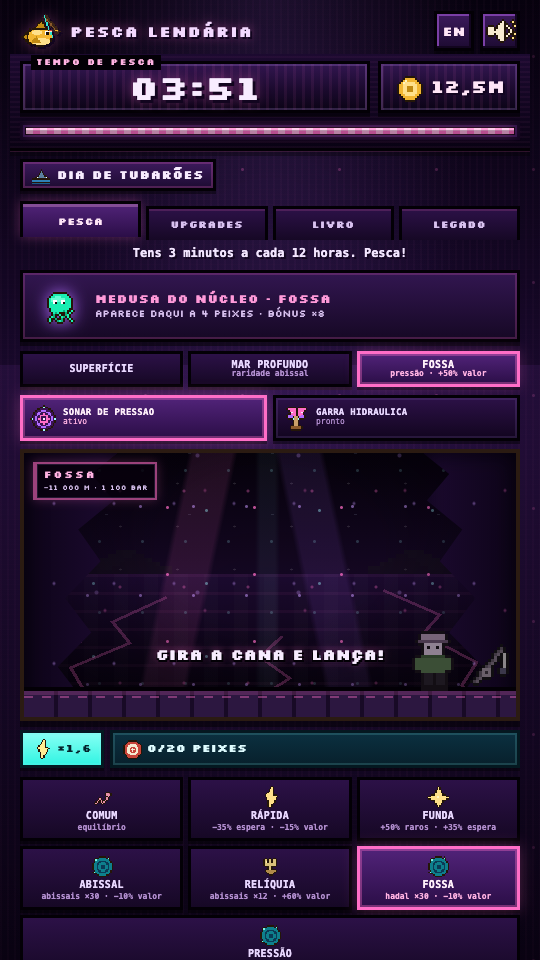
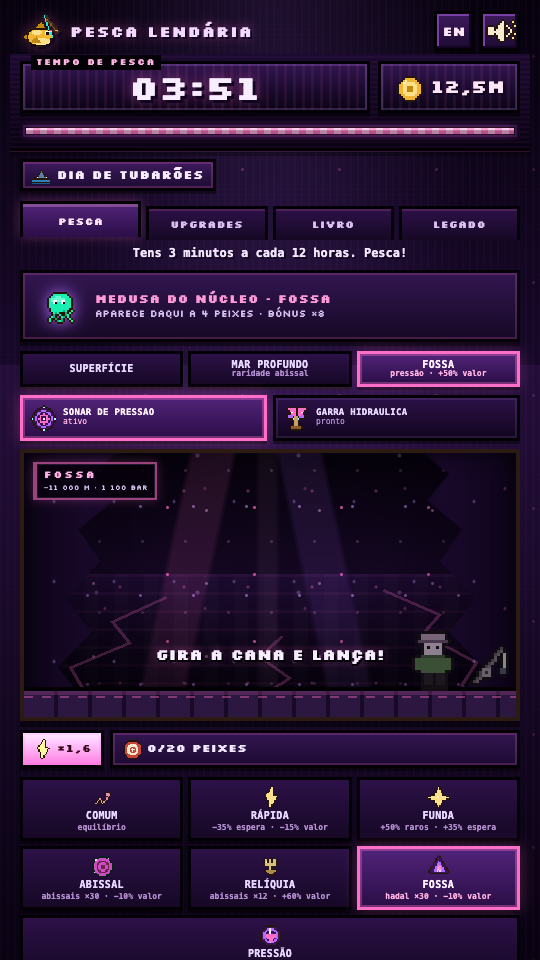
Remove os últimos azuis do tema da Fossa
- Combo, missão, evento, capturas, conquistas e modais passam a violeta/rosa.
- Iscas Fossa e Pressão ganham ícones próprios.
- Ícones abissais convidados são tingidos na Fossa.
- Remove acentos azuis da cena e atualiza versão/captura.

diff --git a/assets/css/styles.css b/assets/css/styles.css
@@ -709,7 +709,7 @@ body[data-ads="gd"] .site-footer{display:none !important;}
   background-image:
     radial-gradient(circle, rgba(255,110,199,.85) 1.5px, transparent 2.5px),
     radial-gradient(circle, rgba(201,154,255,.6) 2px, transparent 3px),
-    radial-gradient(circle, rgba(159,247,255,.45) 1px, transparent 2px);
+    radial-gradient(circle, rgba(255,179,226,.45) 1px, transparent 2px);
 }
 .descida.fossa.ativa .descida-bolhas{animation-duration:2.2s;}
 .descida.fossa .descida-vinheta{
@@ -727,7 +727,7 @@ body[data-ads="gd"] .site-footer{display:none !important;}
     inset 0 0 26px rgba(255,110,199,.4);
   background:
     linear-gradient(90deg, rgba(255,110,199,.16), transparent 13%, transparent 87%, rgba(255,110,199,.16)),
-    repeating-linear-gradient(0deg, transparent 0 7px, rgba(159,247,255,.035) 7px 8px);
+    repeating-linear-gradient(0deg, transparent 0 7px, rgba(255,179,226,.04) 7px 8px);
 }
 .descida.fossa.ativa .descida-pressao{animation:pressaoPulsa 1.7s steps(3) infinite;}
 .descida-sonar{
@@ -742,7 +742,7 @@ body[data-ads="gd"] .site-footer{display:none !important;}
   position:absolute;top:-120%;bottom:-120%;left:0;right:0;z-index:1;opacity:0;pointer-events:none;
   background-image:
     radial-gradient(circle, rgba(201,154,255,.65) 1px, transparent 2px),
-    radial-gradient(circle, rgba(159,247,255,.4) 1px, transparent 2px),
+    radial-gradient(circle, rgba(255,179,226,.4) 1px, transparent 2px),
     radial-gradient(circle, rgba(255,110,199,.45) 1px, transparent 2px);
   background-size:60px 80px, 90px 120px, 40px 60px;
   background-position:0 0, 21px 33px, 9px 17px;
@@ -1602,7 +1602,7 @@ body[data-modo="fossa"]::before{
     repeating-linear-gradient(0deg, rgba(255,110,199,.025) 0 1px, transparent 1px 5px),
     radial-gradient(circle, rgba(255,110,199,.55) 1px, transparent 2px),
     radial-gradient(circle, rgba(201,154,255,.42) 1px, transparent 2px),
-    radial-gradient(circle, rgba(159,247,255,.34) 1px, transparent 2px);
+    radial-gradient(circle, rgba(255,179,226,.34) 1px, transparent 2px);
   background-size:auto, auto, 97px 113px, 151px 173px, 223px 197px;
   background-position:center, 0 0, 0 0, 37px 61px, 93px 19px;
   opacity:.5;
@@ -1867,12 +1867,13 @@ body[data-modo="fossa"] .catch-val{color:#ff9ad9;text-shadow:2px 2px 0 #12051f;}
 .scene[data-zona="fossa"] .barco-spr,
 .scene[data-zona="fossa"] .poste,
 .scene[data-zona="fossa"] .peixe-salta{display:none;}
-.scene[data-zona="fossa"] .morro{opacity:.18;filter:hue-rotate(260deg) brightness(.42);}
+.scene[data-zona="fossa"] .morro,
+.scene[data-zona="fossa"] .estrelas{display:none;}
 .scene[data-zona="fossa"] .abismo-luz{
   background:
     linear-gradient(102deg, transparent 30%, rgba(255,110,199,.11) 31%, rgba(255,110,199,.11) 38%, transparent 39%),
     linear-gradient(78deg, transparent 56%, rgba(176,107,255,.1) 57%, rgba(176,107,255,.1) 64%, transparent 65%),
-    linear-gradient(90deg, transparent 47%, rgba(159,247,255,.05) 48%, rgba(159,247,255,.05) 51%, transparent 52%);
+    linear-gradient(90deg, transparent 47%, rgba(255,179,226,.05) 48%, rgba(255,179,226,.05) 51%, transparent 52%);
   animation:none;
 }
 .scene[data-zona="fossa"] .abismo-plankton{
@@ -1880,7 +1881,7 @@ body[data-modo="fossa"] .catch-val{color:#ff9ad9;text-shadow:2px 2px 0 #12051f;}
   background-image:
     radial-gradient(circle, rgba(255,110,199,.95) 1px, transparent 2px),
     radial-gradient(circle, rgba(201,154,255,.7) 1px, transparent 2px),
-    radial-gradient(circle, rgba(159,247,255,.55) 1px, transparent 2px);
+    radial-gradient(circle, rgba(255,179,226,.55) 1px, transparent 2px);
   background-size:87px 67px, 53px 89px, 113px 73px;
   animation:none;
 }
@@ -1889,7 +1890,7 @@ body[data-modo="fossa"] .catch-val{color:#ff9ad9;text-shadow:2px 2px 0 #12051f;}
   background-image:
     radial-gradient(circle, rgba(255,110,199,.8) 1px, transparent 2px),
     radial-gradient(circle, rgba(201,154,255,.65) 1.5px, transparent 2.5px),
-    radial-gradient(circle, rgba(159,247,255,.45) 1px, transparent 2px);
+    radial-gradient(circle, rgba(255,179,226,.45) 1px, transparent 2px);
   animation:none;
 }
 .scene[data-zona="fossa"] .abismo-vinheta{
@@ -2071,3 +2072,129 @@ body[data-fx="leve"] .scene[data-zona="fossa"]{
   box-shadow:inset 0 0 0 3px rgba(255,110,199,.2), 0 6px 0 rgba(0,0,0,.5);
 }
 body[data-fx="leve"] .scene[data-zona="fossa"] .fossa-fendas{opacity:.16;}
+
+
+/* ==========================================================================
+   FOSSA: remover os últimos azuis herdados do Mar Profundo
+   ========================================================================== */
+body[data-modo="fossa"] .muted{color:#c9a4e6;text-shadow:none;}
+body[data-modo="fossa"] .modal{background:rgba(6,0,12,.82);}
+
+/* Evento, combo e missão */
+body[data-modo="fossa"] .event-card{
+  background:linear-gradient(180deg,#2c1147,#160825);
+  border-color:#030006;
+  box-shadow:inset 0 0 0 2px #512379, 4px 4px 0 rgba(0,0,0,.5);
+  color:#f3e6ff;
+}
+body[data-modo="fossa"] .ev-title{color:#ffe6f7;}
+body[data-modo="fossa"] .ev-desc{color:#d9c2f0;}
+body[data-modo="fossa"] .ev-close{background:#3c1a5c;border-color:#030006;color:#ffe6f7;}
+body[data-modo="fossa"] .combo{
+  background:linear-gradient(180deg,#321650,#1d0b32);
+  border-color:#030006;
+  color:#f3e6ff;
+  box-shadow:inset 0 0 0 2px rgba(255,110,199,.2), 0 3px 0 rgba(0,0,0,.45);
+}
+body[data-modo="fossa"] .combo.hot{
+  background:linear-gradient(180deg,#ffd0ef,#ff6ec7);
+  color:#2a061c;
+}
+body[data-modo="fossa"] .missao{
+  background:linear-gradient(180deg,#321650,#1d0b32);
+  border-color:#030006;
+  color:#f3e6ff;
+  box-shadow:inset 0 0 0 2px rgba(255,110,199,.2), 0 3px 0 rgba(0,0,0,.45);
+}
+body[data-modo="fossa"] .missao.ok{
+  background:linear-gradient(180deg,#512379,#2b0e47);
+  color:#ffe6f7;
+}
+body[data-modo="fossa"] #toast{background:#1d0b32;border-color:#512379;color:#f8ecff;}
+
+/* Resultado da captura */
+body[data-modo="fossa"] .catch{
+  background:#1a0a2e;
+  box-shadow:inset 0 0 0 5px #2d1245, inset 0 0 0 8px #512379;
+}
+body[data-modo="fossa"] .catch-name{color:#f8ecff;}
+body[data-modo="fossa"] .catch-val{color:#ff9ad9;text-shadow:2px 2px 0 #12051f;}
+body[data-modo="fossa"] .catch-info{color:#d9c2f0;}
+body[data-modo="fossa"] .catch-pearl{color:#ffb3e2;}
+body[data-modo="fossa"] .catch-flag{border-color:#12051f;}
+body[data-modo="fossa"] #marker{box-shadow:0 0 0 2px #12051f;}
+body[data-modo="fossa"] .boia{border-color:#12051f;}
+
+/* Novidades */
+body[data-modo="fossa"] .nov-sub,
+body[data-modo="fossa"] .nov-data,
+body[data-modo="fossa"] .nov-itens{color:#d9c2f0;}
+body[data-modo="fossa"] .nov-versao{color:#f3e6ff;}
+body[data-modo="fossa"] .nov-titulo{color:#ff9ad9;}
+body[data-modo="fossa"] .nov-item{border-top-color:rgba(255,110,199,.24);}
+
+/* Conquistas */
+body[data-modo="fossa"] .ach-card{
+  background:linear-gradient(180deg,#24103d,#10051e);
+  border-color:#030006;
+  box-shadow:inset -2px -2px 0 #12051f, inset 2px 2px 0 #512379;
+}
+body[data-modo="fossa"] .ach-card.done{
+  background:linear-gradient(180deg,#3b1558,#24103d);
+  border-color:#ff6ec7;
+}
+body[data-modo="fossa"] .ach-name{color:#f3e6ff;}
+body[data-modo="fossa"] .ach-desc{color:#d9c2f0;}
+body[data-modo="fossa"] .ach-bar{background:#12051f;border-color:#030006;}
+body[data-modo="fossa"] .ach-fill{background:linear-gradient(90deg,#b06bff,#ff6ec7);}
+body[data-modo="fossa"] .ach-prog{color:#c9a4e6;}
+body[data-modo="fossa"] .ach-reward{color:#ff9ad9;}
+
+/* Modais e fim do dia */
+body[data-modo="fossa"] .modal-card{
+  background:linear-gradient(180deg,#24103d,#10051e);
+  border-color:#030006;
+  box-shadow:inset 0 0 0 3px #512379, 8px 8px 0 rgba(0,0,0,.55);
+  color:#f3e6ff;
+}
+body[data-modo="fossa"] .modal-card h2{color:#ff9ad9;text-shadow:2px 2px 0 #12051f;}
+body[data-modo="fossa"] .modal-card p{color:#d9c2f0;}
+body[data-modo="fossa"] .fim-grid div{
+  background:linear-gradient(180deg,#24103d,#140724);
+  border-color:#030006;
+  box-shadow:inset -2px -2px 0 #12051f, inset 2px 2px 0 #512379;
+}
+body[data-modo="fossa"] .fim-grid b{color:#ff9ad9;text-shadow:2px 2px 0 #12051f;}
+body[data-modo="fossa"] .fim-grid span{color:#c9a4e6;}
+body[data-modo="fossa"] .fim-best{
+  background:#24103d;border-color:#030006;box-shadow:inset 0 0 0 2px #512379;color:#f3e6ff;
+}
+body[data-modo="fossa"] .fim-best b{color:#ff9ad9;}
+body[data-modo="fossa"] .streak{
+  background:#321650;border-color:#030006;color:#f3e6ff;
+  box-shadow:inset 0 0 0 2px #512379;
+}
+body[data-modo="fossa"] .streak b{color:#ff9ad9;}
+body[data-modo="fossa"] .nextday{color:#d9c2f0;}
+body[data-modo="fossa"] .nextday span{color:#ff9ad9;}
+body[data-modo="fossa"] .amanha{
+  background:#24103d;border-color:#030006;color:#f3e6ff;
+  box-shadow:inset 0 0 0 2px #512379;
+}
+body[data-modo="fossa"] .amanha b{color:#ff9ad9;}
+body[data-modo="fossa"] .fim-chefe{
+  background:#321650;border-color:#030006;color:#f3e6ff;
+  box-shadow:inset 0 0 0 2px #512379;
+}
+body[data-modo="fossa"] #ad-banner{
+  background:repeating-linear-gradient(45deg,#2c1147 0 8px,#1a0a2e 8px 16px);
+  border-color:#512379;
+  color:#c9a4e6;
+}
+body[data-modo="fossa"] #offlineVal{color:#ff9ad9 !important;}
+body[data-modo="fossa"] .consent{border-top-color:#ff6ec7;}
+
+/* Ícones abissais convidados ficam na paleta da Fossa */
+body[data-modo="fossa"] [data-sprite="abismo"] canvas{
+  filter:hue-rotate(115deg) saturate(1.15) brightness(1.08);
+}

diff --git a/index.html b/index.html
@@ -172,8 +172,8 @@
         <button class="isca" data-isca="funda"><span class="spr-slot" data-sprite="estrela"></span><span data-i18n="iscaFunda">Funda</span><small data-i18n="iscaFundaSub">+50% raros · +35% espera</small></button>
         <button class="isca hidden" data-isca="abissal"><span class="spr-slot" data-sprite="abismo"></span><span data-i18n="iscaAbissal">Abissal</span><small data-i18n="iscaAbissalSub">abissais ×30 · valor -10%</small></button>
         <button class="isca hidden" data-isca="reliquia"><span class="spr-slot" data-sprite="reliquia"></span><span data-i18n="iscaReliquia">Relíquia</span><small data-i18n="iscaReliquiaSub">abissais ×12 · +60% valor</small></button>
-        <button class="isca hidden" data-isca="fossa"><span class="spr-slot" data-sprite="abismo"></span><span data-i18n="iscaFossa">Fossa</span><small data-i18n="iscaFossaSub">hadal ×30 · -10% valor</small></button>
-        <button class="isca hidden" data-isca="pressao"><span class="spr-slot" data-sprite="abismo"></span><span data-i18n="iscaPressao">Pressão</span><small data-i18n="iscaPressaoSub">hadal ×12 · +50% valor</small></button>
+        <button class="isca hidden" data-isca="fossa"><span class="spr-slot" data-sprite="fossa"></span><span data-i18n="iscaFossa">Fossa</span><small data-i18n="iscaFossaSub">hadal ×30 · -10% valor</small></button>
+        <button class="isca hidden" data-isca="pressao"><span class="spr-slot" data-sprite="pressao"></span><span data-i18n="iscaPressao">Pressão</span><small data-i18n="iscaPressaoSub">hadal ×12 · +50% valor</small></button>
       </div>
 
       <button class="big-btn" id="castBtn">LANÇAR</button>

diff --git a/assets/js/sprites.js b/assets/js/sprites.js
@@ -407,8 +407,21 @@ function spriteIcone(nome, escala) {
       triPx(g, 15, 8, 8, 5, 8, 11, '#ffe08a');
       rectPx(g, 7, 7, 2, 2, '#fff6c0');
       break;
-    case 'sonar':
-      elipsePx(g, 8, 8, 6.2, 6.2, '#3a1454');
+    case 'fossa':
+      triPx(g, 8, 1, 1, 13, 15, 13, '#3a1558');
+      triPx(g, 8, 4, 4, 12, 12, 12, '#b06bff');
+      triPx(g, 8, 7, 6, 11, 10, 11, '#ff8bd1');
+      px(g, 8, 10, '#f8ecff'); px(g, 7, 11, '#ffd0ef'); px(g, 9, 11, '#ffd0ef');
+      break;
+    case 'pressao':
+      elipsePx(g, 8, 8, 6.5, 6.5, '#3a1558');
+      elipsePx(g, 8, 8, 5.2, 5.2, '#b06bff');
+      elipsePx(g, 8, 8, 3.8, 3.8, '#3a1558');
+      rectPx(g, 7, 3, 2, 6, '#f8ecff');
+      triPx(g, 8, 13, 4, 7, 12, 7, '#ff6ec7');
+      px(g, 8, 13, '#ffd0ef');
+      break;
+    case 'sonar':      elipsePx(g, 8, 8, 6.2, 6.2, '#3a1454');
       elipsePx(g, 8, 8, 5.1, 5.1, '#b06bff');
       elipsePx(g, 8, 8, 4.0, 4.0, '#3a1454');
       elipsePx(g, 8, 8, 2.9, 2.9, '#ff6ec7');

diff --git a/assets/js/updates.js b/assets/js/updates.js
@@ -6,9 +6,25 @@
    Carregado depois de data.js.
    ========================================================================== */
 
-const APP_VERSION = '1.5.11';
+const APP_VERSION = '1.5.12';
 
 const ATUALIZACOES = [
+  {
+    versao: '1.5.12',
+    data: '15/11/2026',
+    titulo: 'Fossa sem azuis',
+    tituloEn: 'No more blue',
+    itens: [
+      'Combo, missão, evento, capturas, conquistas e modais passam a violeta e rosa na Fossa.',
+      'As iscas Fossa e Pressão ganharam ícones próprios.',
+      'Os ícones abissais convidados são tingidos para a paleta da Fossa.'
+    ],
+    itensEn: [
+      'Combo, mission, event, catches, achievements and modals use violet and pink in the Trench.',
+      'Trench and Pressure baits now have their own icons.',
+      'Guest abyssal icons are tinted to match the Trench palette.'
+    ]
+  },
   {
     versao: '1.5.11',
     data: '15/11/2026',

diff --git a/README.md b/README.md
@@ -12,7 +12,7 @@
   <img alt="HTML + CSS + JS" src="https://img.shields.io/badge/HTML%20%2B%20CSS%20%2B%20JS-vanilla-f2b632?style=flat-square">
   <img alt="Sem build" src="https://img.shields.io/badge/build-none-2ee6d6?style=flat-square">
   <img alt="PT / EN" src="https://img.shields.io/badge/lang-PT%20%7C%20EN-2f7fb5?style=flat-square">
-  <img alt="Versão 1.5.11" src="https://img.shields.io/badge/vers%C3%A3o-1.5.11-0e7f8c?style=flat-square">
+  <img alt="Versão 1.5.12" src="https://img.shields.io/badge/vers%C3%A3o-1.5.12-0e7f8c?style=flat-square">
 </p>
 
 <p align="center">
